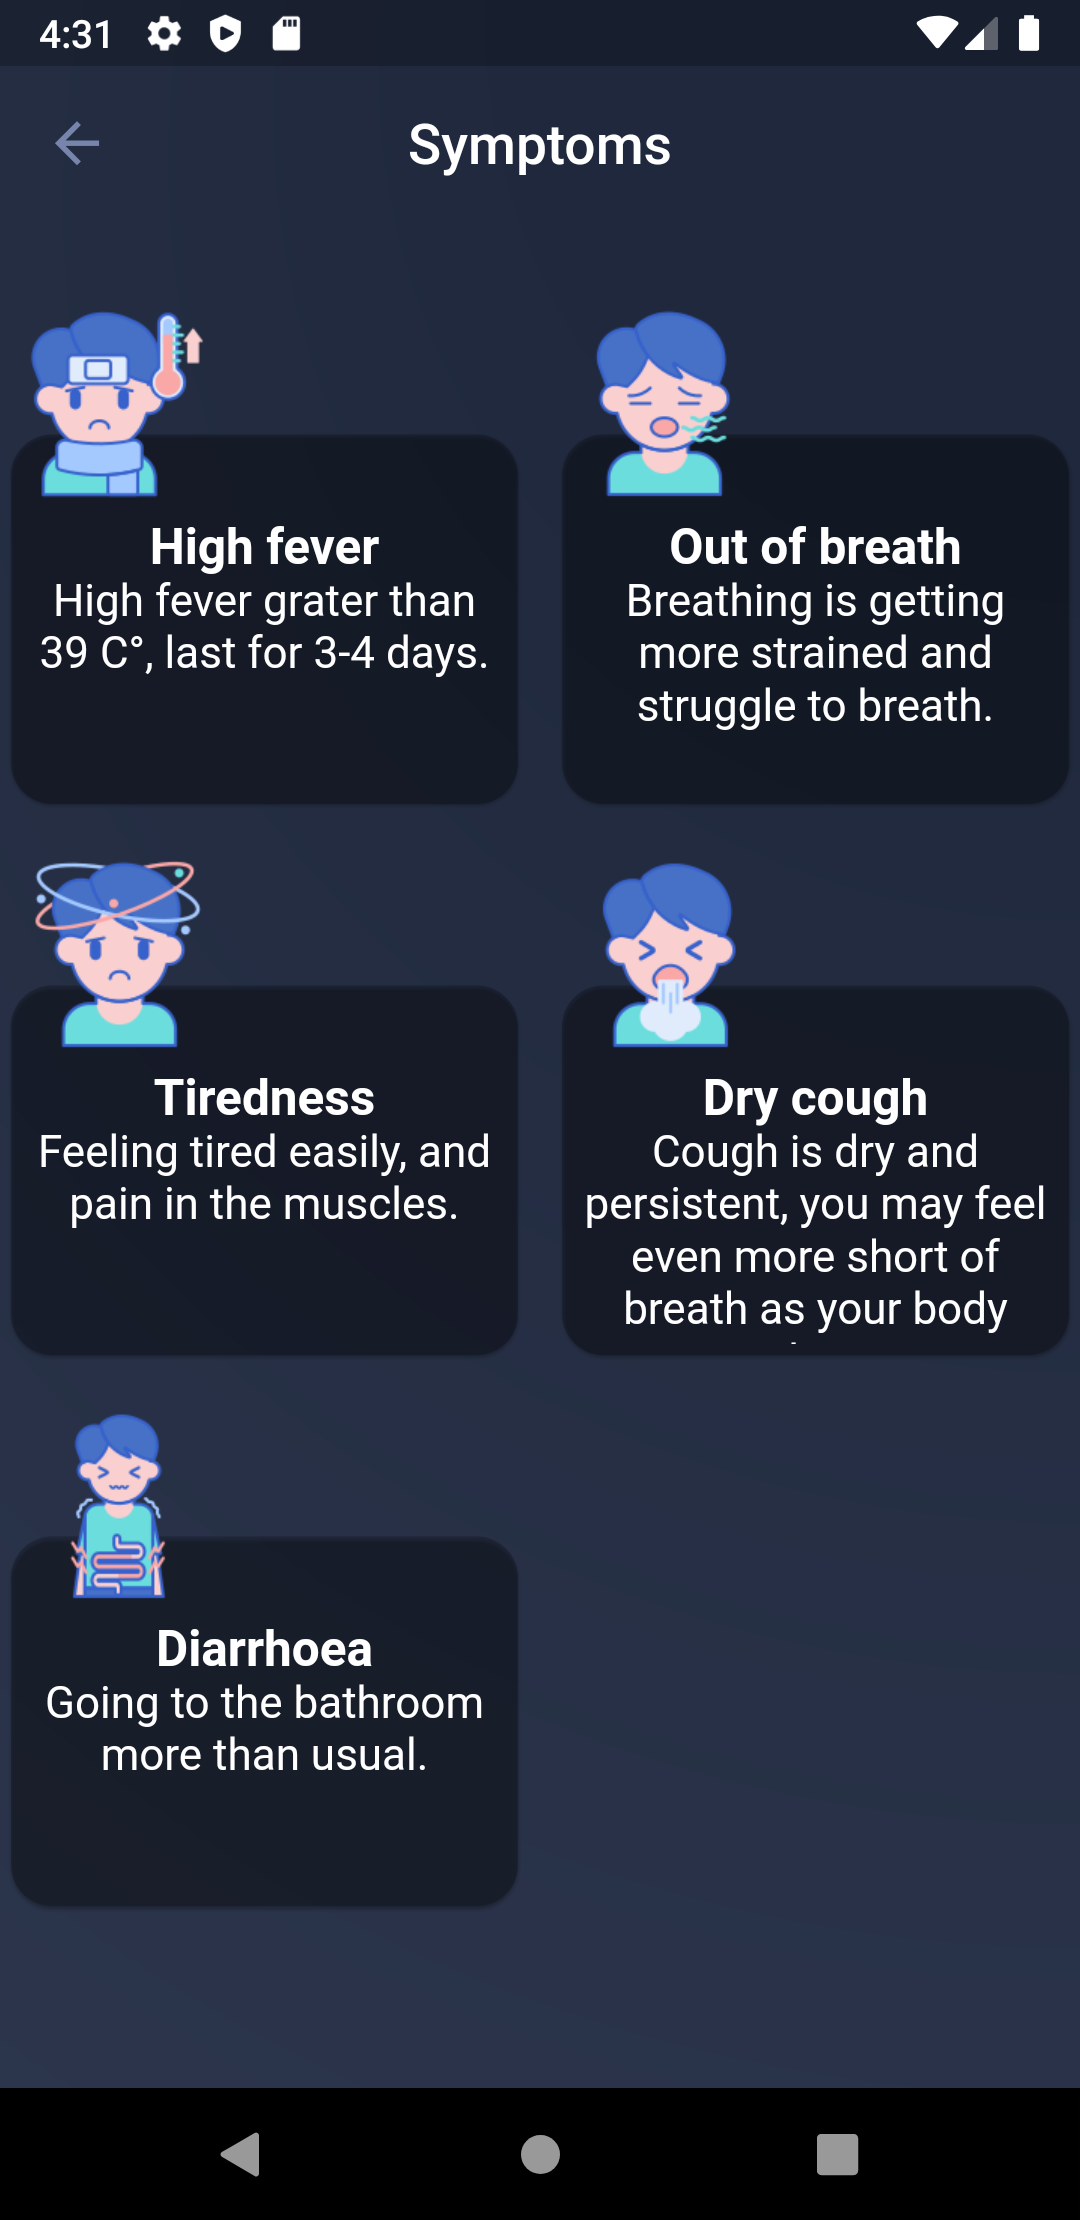
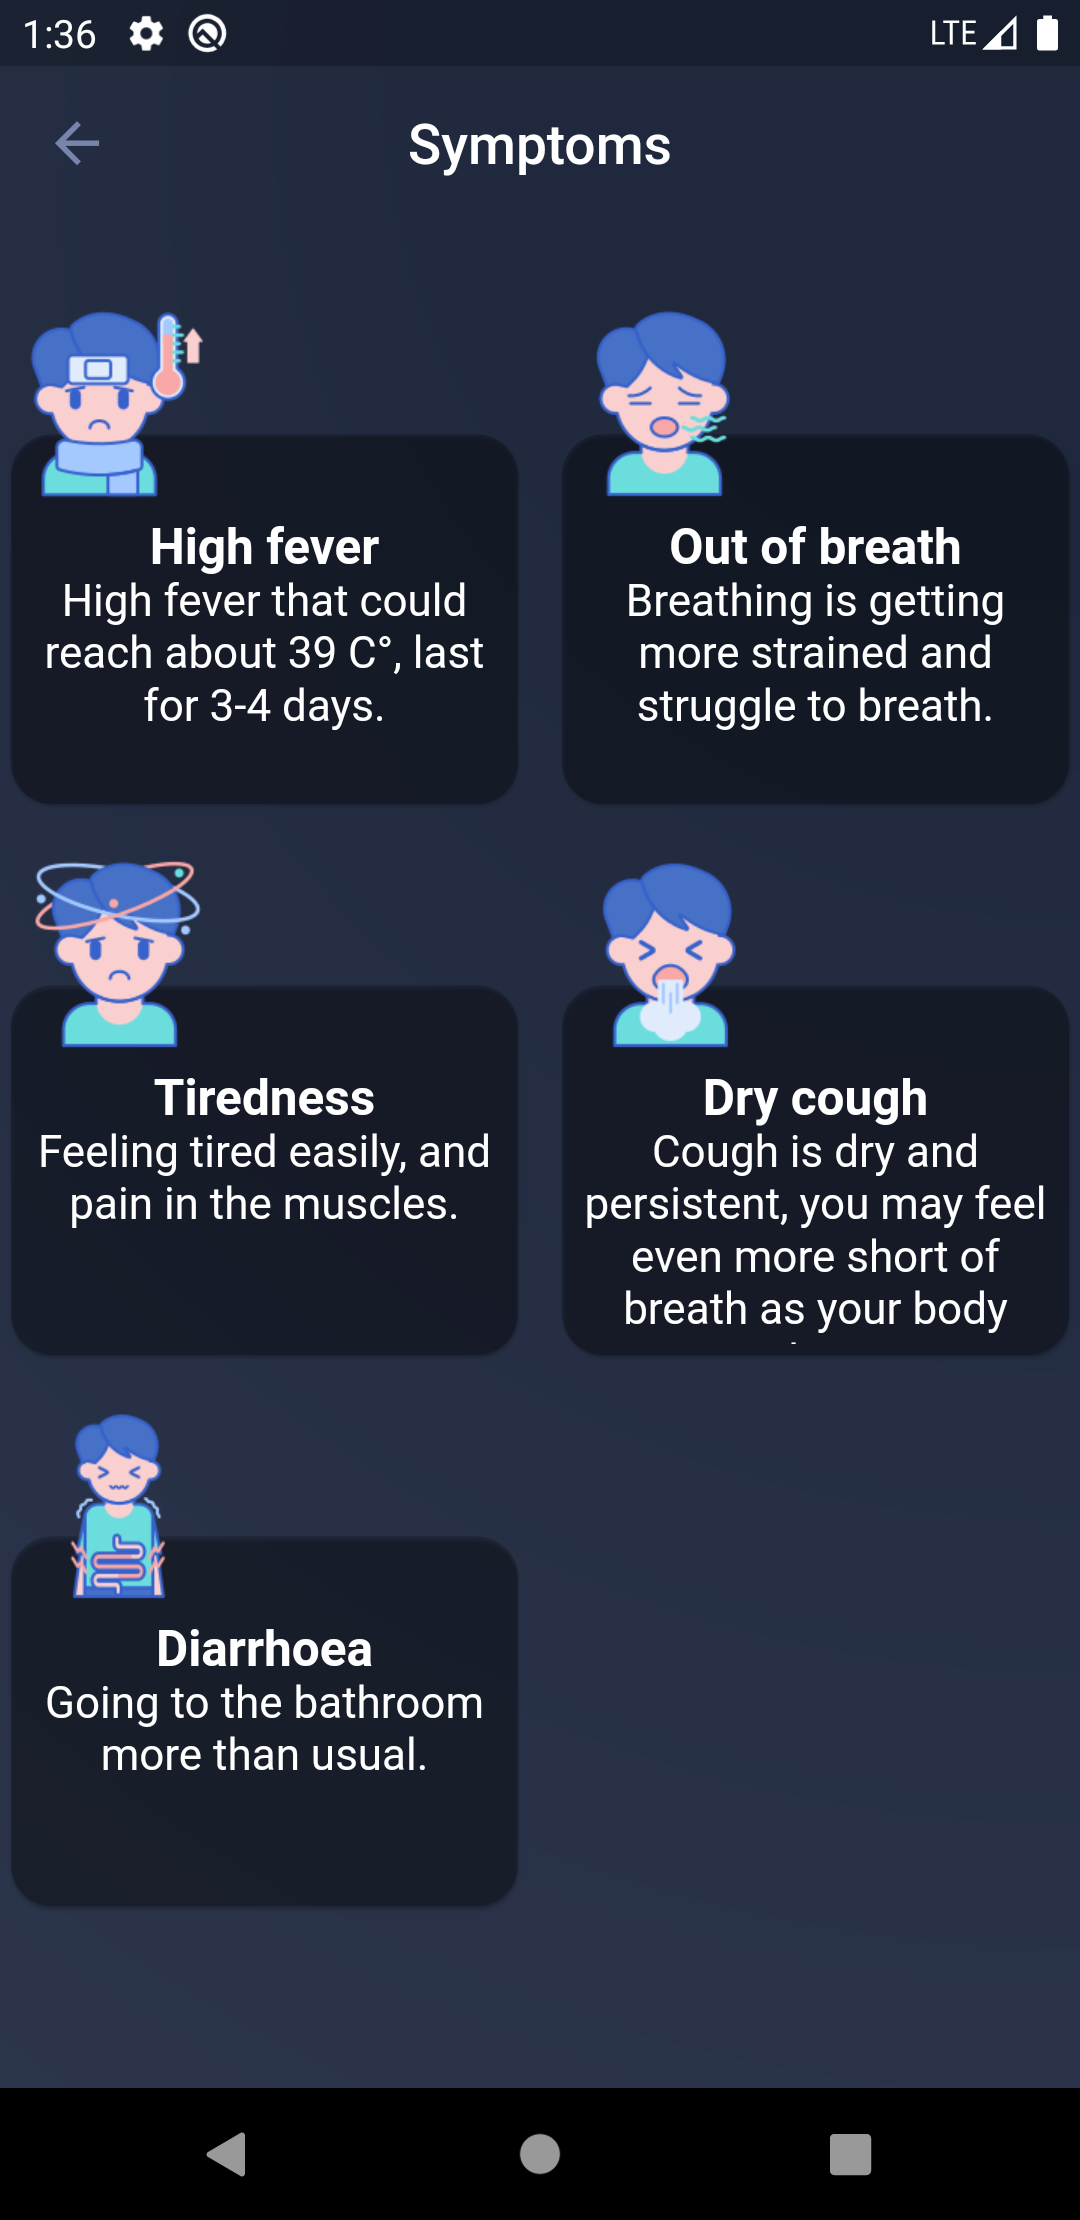
Handle connection failing issue, correct some info

diff --git a/lib/ui/pages/home_page.dart b/lib/ui/pages/home_page.dart
@@ -6,6 +6,7 @@ import 'package:covidtracker/ui/widgets/animated_cases_list.dart';
 import 'package:covidtracker/ui/widgets/dark_background.dart';
 import 'package:covidtracker/ui/widgets/drawer.dart';
 import 'package:covidtracker/ui/widgets/home_appbar.dart';
+import 'package:covidtracker/ui/widgets/no_connection.dart';
 import 'package:covidtracker/ui/widgets/summary_section.dart';
 import 'package:covidtracker/ui/widgets/world_loading.dart';
 import 'package:flutter/material.dart';
@@ -48,6 +49,7 @@ class _HomePageState extends State<HomePage> {
       future: _api.getCases(),
       builder: (context, snap) {
         if (snap.connectionState == ConnectionState.waiting) return Container();
+        if (snap.data == null) return NoConnection();
         return AnimatedCasesList(list: (_caseModels = snap.data));
       },
     );
@@ -78,6 +80,7 @@ class _HomePageState extends State<HomePage> {
       builder: (context, snap) {
         if (snap.connectionState == ConnectionState.waiting)
           return WorldLoading();
+        if (snap.data == null) return NoConnection();
         return SummarySection(summaryModel: (_summaryModel = snap.data));
       },
     );

diff --git a/lib/ui/pages/cities_page.dart b/lib/ui/pages/cities_page.dart
@@ -3,6 +3,7 @@ import 'package:covidtracker/models/region_info.dart';
 import 'package:covidtracker/repo/api.dart';
 import 'package:covidtracker/ui/widgets/dark_background.dart';
 import 'package:covidtracker/ui/widgets/home_appbar.dart';
+import 'package:covidtracker/ui/widgets/no_connection.dart';
 import 'package:covidtracker/ui/widgets/world_loading.dart';
 import 'package:covidtracker/utils/assets_utils.dart';
 import 'package:covidtracker/utils/decoration_utils.dart';
@@ -31,6 +32,7 @@ class CitiesPage extends StatelessWidget {
           builder: (context, snap) {
             if (snap.connectionState == ConnectionState.waiting)
               return WorldLoading();
+            if (snap.data == null) return NoConnection();
             return Expanded(child: _buildListOfCities(snap.data));
           },
         )

diff --git a/lib/ui/widgets/no_connection.dart b/lib/ui/widgets/no_connection.dart
@@ -1,0 +1,26 @@
+import 'package:covidtracker/lang/locale.dart';
+import 'package:covidtracker/utils/decoration_utils.dart';
+import 'package:flutter/material.dart';
+
+class NoConnection extends StatelessWidget {
+  DecorationUtils _decorationUtils = DecorationUtils.getInstance();
+
+  @override
+  Widget build(BuildContext context) {
+    return Center(
+      child: Container(
+        padding: EdgeInsets.all(8),
+        margin: EdgeInsets.all(8),
+        decoration: _decorationUtils.getContainerBorder(Colors.white),
+        child: Text(
+          AppLocale.getString(context, 'connection_error_message'),
+          textAlign: TextAlign.center,
+          style: TextStyle(
+            color: Colors.white,
+            fontSize: 18,
+          ),
+        ),
+      ),
+    );
+  }
+}

diff --git a/lib/ui/pages/statistics_page.dart b/lib/ui/pages/statistics_page.dart
@@ -5,6 +5,7 @@ import 'package:covidtracker/ui/widgets/charts/daily_cases.dart';
 import 'package:covidtracker/ui/widgets/charts/summary_chart.dart';
 import 'package:covidtracker/ui/widgets/dark_background.dart';
 import 'package:covidtracker/ui/widgets/home_appbar.dart';
+import 'package:covidtracker/ui/widgets/no_connection.dart';
 import 'package:covidtracker/ui/widgets/world_loading.dart';
 import 'package:flutter/material.dart';
 
@@ -30,6 +31,7 @@ class StatisticsPage extends StatelessWidget {
           builder: (context, snap) {
             if (snap.connectionState == ConnectionState.waiting)
               return WorldLoading();
+            if (snap.data == null) return NoConnection();
             return _buildDataGraphs(snap.data);
           },
         )

diff --git a/lib/ui/pages/details_page.dart b/lib/ui/pages/details_page.dart
@@ -4,6 +4,7 @@ import 'package:covidtracker/repo/api.dart';
 import 'package:covidtracker/ui/widgets/dark_background.dart';
 import 'package:covidtracker/ui/widgets/details_item.dart';
 import 'package:covidtracker/ui/widgets/home_appbar.dart';
+import 'package:covidtracker/ui/widgets/no_connection.dart';
 import 'package:covidtracker/ui/widgets/world_loading.dart';
 import 'package:flutter/material.dart';
 
@@ -28,6 +29,7 @@ class DetailsPage extends StatelessWidget {
           builder: (context, snap) {
             if (snap.connectionState == ConnectionState.waiting)
               return WorldLoading();
+            if (snap.data == null) return NoConnection();
             return Expanded(child: _buildDetailsList(snap.data));
           },
         )

diff --git a/lib/utils/decoration_utils.dart b/lib/utils/decoration_utils.dart
@@ -28,4 +28,8 @@ class DecorationUtils {
       color: color,
     );
   }
+
+  BoxDecoration getContainerBorder(Color color) {
+    return BoxDecoration(border: Border.all(color: Colors.white));
+  }
 }
